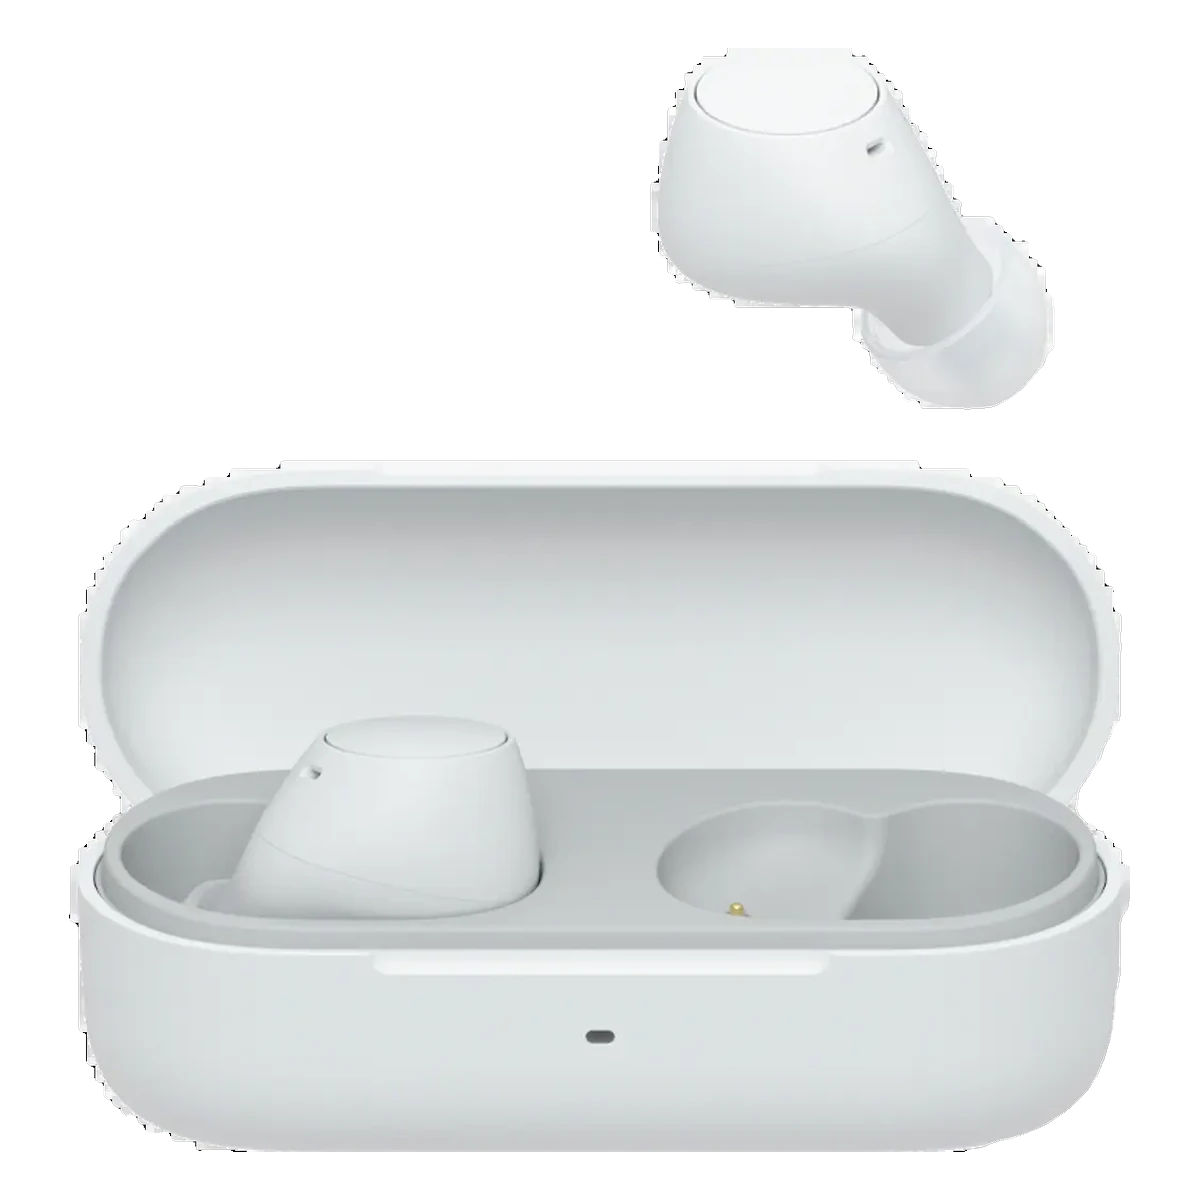
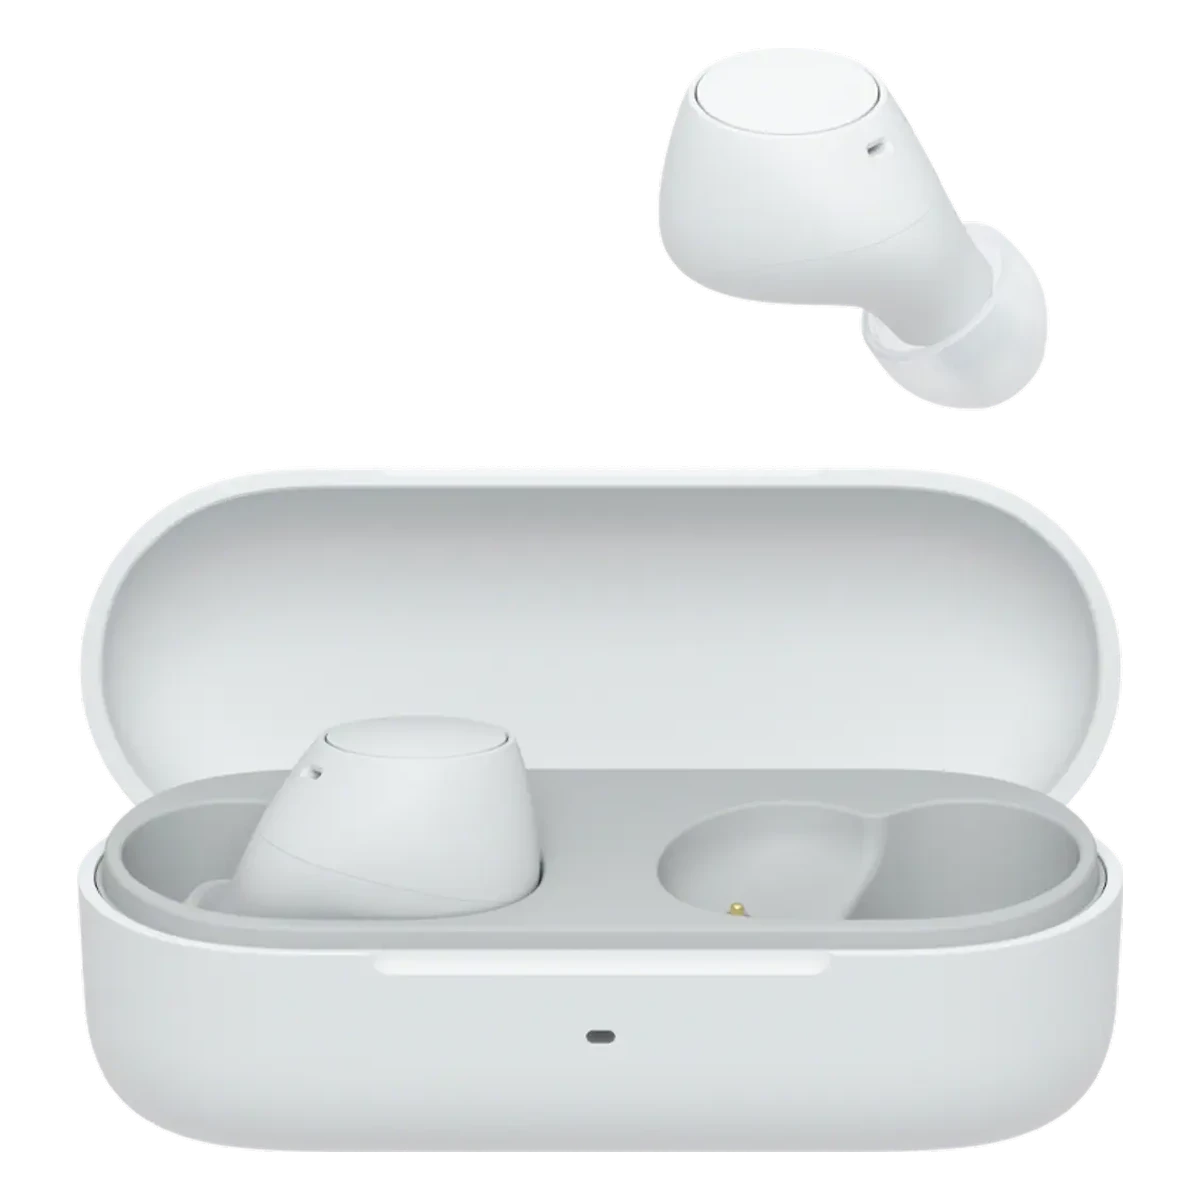
Give a cutout an edge that is not a staircase
Three things made the edges look cut out with scissors.

The mask is effectively binary: alpha stepped 0 -> 255 in ONE pixel, so every
silhouette was a staircase, which on a white page reads as a hard outline rather
than a photograph. The alpha now gets a sub-pixel feather - enough to fill the
step, too little to soften anything a reader would call detail. Measured on the
WF-C510: part-transparent pixels 7,806 -> 18,543, and the ramp across an edge
goes 0,6,24,124,234,255 where it used to go 0,60,255.

The canvas paste passed the image as its own mask, which composites the
part-transparent band against the canvas - transparent BLACK - so every edge
pixel was pulled toward black. An empty canvas has nothing to blend with; the
pixels are copied wholesale now, which is what was meant.

And the dark speckled outline on the two Sony photographs was mine: those files
carry an alpha channel, and converting them with .convert('RGB') composited them
against black, so the matte then cut the product out of a black field. Saved with
their alpha intact they are recognised as pre-cut and skip backdrop removal
altogether.

The 1,735 cutouts already on disk still have the old hard edge; re-matting them
is hours of CPU and is not started here.

diff --git a/tools/cutout.py b/tools/cutout.py
@@ -11,7 +11,7 @@
 # the question the thresholds could not.
 import sys, os, io, subprocess
 from pathlib import Path
-from PIL import Image
+from PIL import Image, ImageFilter
 import numpy as np
 from scipy import ndimage
 from rembg import remove, new_session
@@ -174,8 +174,20 @@ def cut(path: Path, solid_cat: bool = False) -> Image.Image:
     scale = (side * FILL) / max(w, h)
     img = img.resize((max(1, round(w * scale)), max(1, round(h * scale))), Image.LANCZOS)
 
+    # The model's mask is effectively binary: alpha steps 0 -> 255 in a single pixel, so every
+    # edge is a staircase, and on a white page that reads as a hard, crunchy outline rather than
+    # a photograph. A sub-pixel feather of the ALPHA ONLY gives the anti-aliasing the mask never
+    # had. The radius is deliberately under one pixel - enough to fill the step, too little to
+    # soften anything a reader would call detail.
+    a = img.getchannel('A').filter(ImageFilter.GaussianBlur(0.6))
+    img.putalpha(a)
+
+    # ...and pasted WITHOUT a mask. Pasting RGBA through its own alpha composites the edge band
+    # against the canvas, which is transparent BLACK, so every part-transparent pixel was pulled
+    # toward black and the cutout wore a dark fringe. An empty canvas has nothing to blend with;
+    # copying the pixels wholesale is both correct and what was meant.
     canvas = Image.new('RGBA', (side, side), (0, 0, 0, 0))
-    canvas.paste(img, ((side - img.width) // 2, (side - img.height) // 2), img)
+    canvas.paste(img, ((side - img.width) // 2, (side - img.height) // 2))
     return canvas
 
 
